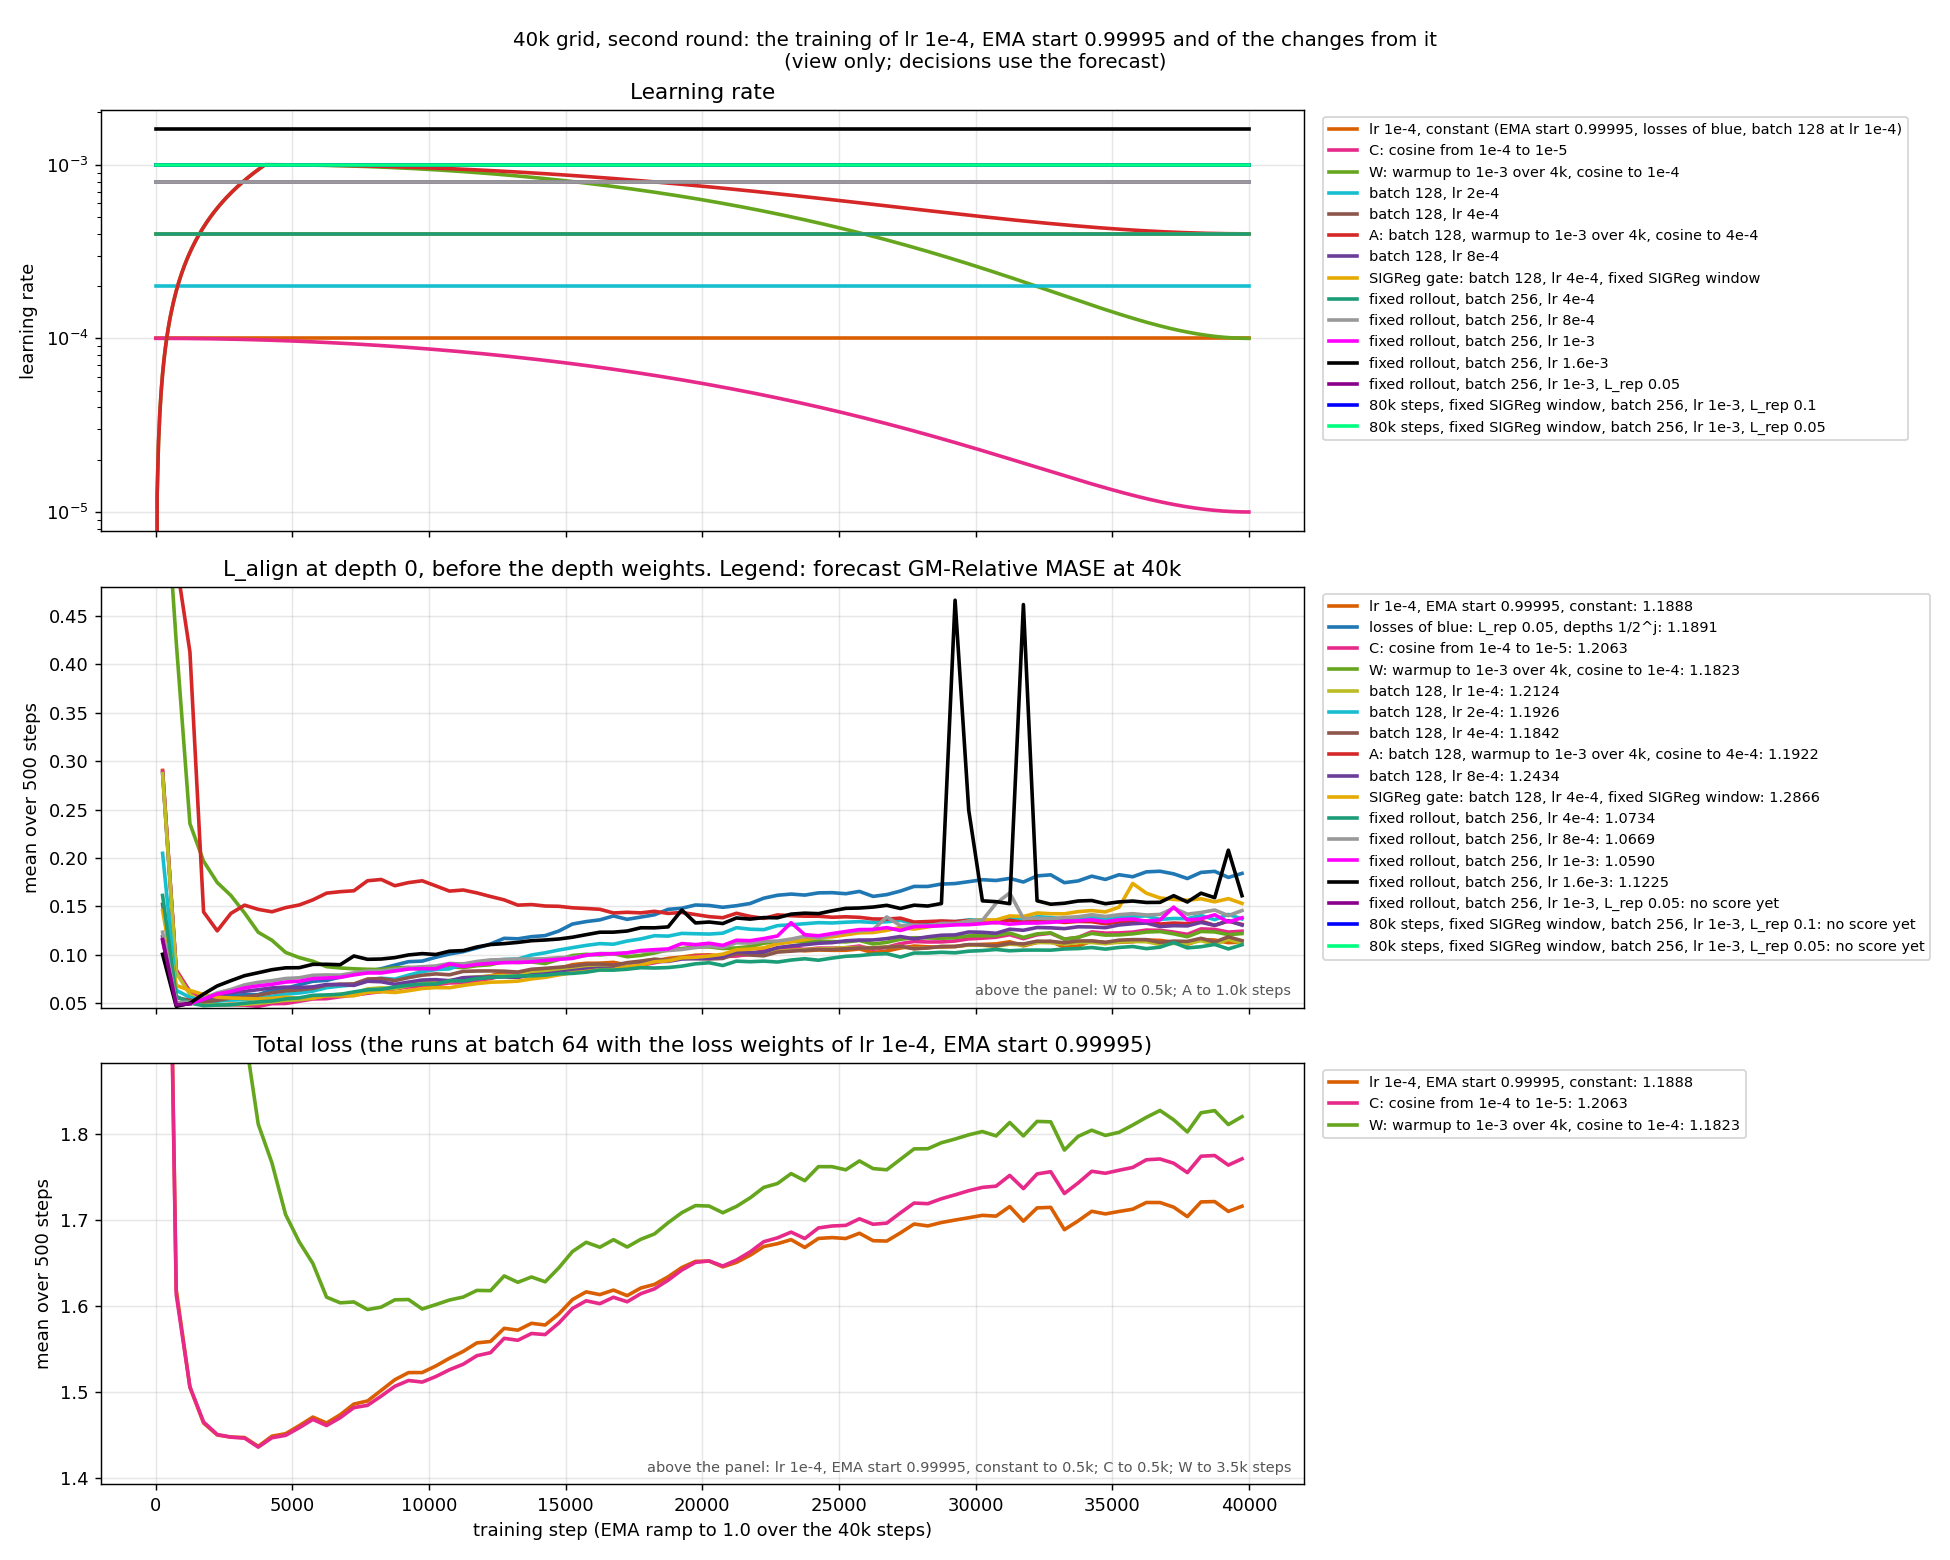
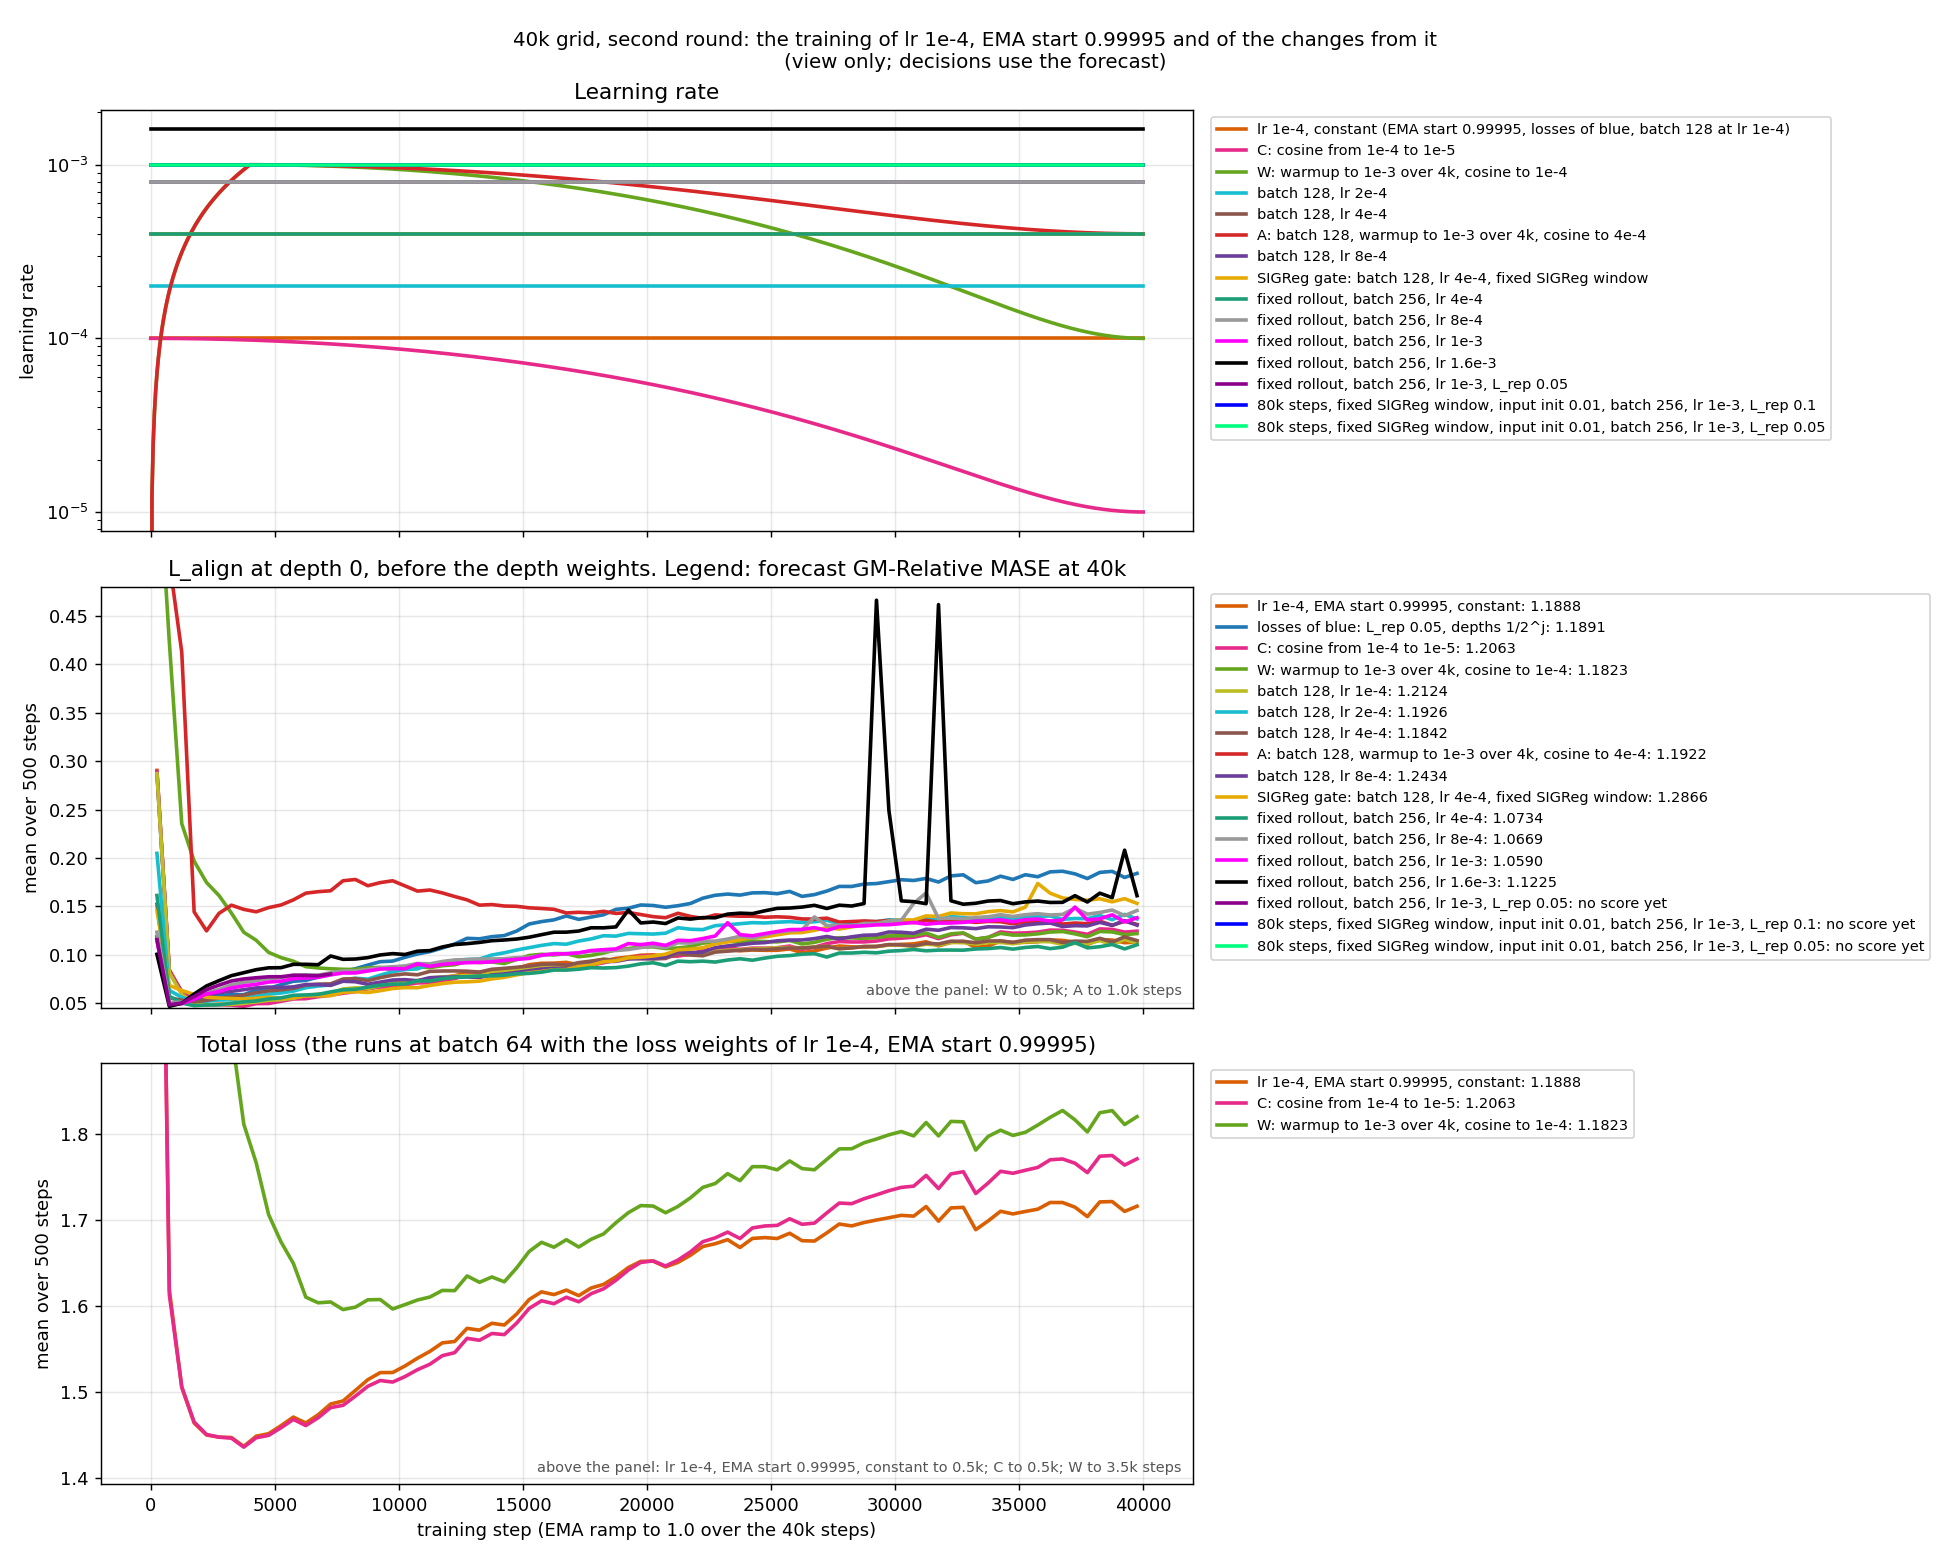
The two 80k runs restart with the patch encoder init near zero (--mup-init-input 0.01)

diff --git a/reports/2026-10-10_frequency_family_head/scripts/plot_grid40k.py b/reports/2026-10-10_frequency_family_head/scripts/plot_grid40k.py
@@ -11,8 +11,8 @@ schedule); batch 128 at the lr 1e-4, 2e-4, 4e-4 and 8e-4, and with the warmup
 of W and a cosine to 4e-4. Batch 256 runs on the fixed code (the user, 11-03):
 the constant lr 4e-4, 8e-4, 1e-3 and 1.6e-3, then L_rep 0.05 at the best of them
 (1e-3; the user's plan of 11-04), and 80k steps at lr 1e-3 with the fixed SIGReg
-window at both L_rep weights, at the same time (the user, 11-05). A grey row is a
-planned run. Its panel has that cell as its first row.
+window at both L_rep weights and the input init 0.01 (--mup-init-input), at the same
+time (the user, 11-05). A grey row is a planned run. Its panel has that cell as its first row.
 
 Each cell is the forecast GM-Relative MASE of head B4 at 40k (30k head steps,
 97 configs). Lower is better. A grey cell has no score yet. A red frame marks
@@ -69,10 +69,10 @@ ROUND2 = {BEST: ("lr 1e-4, EMA start 0.99995\n(no change)", "1e-4"),
                                                    "1.6e-3"),
           "g40b_lr1em3_tau99995_bs256_rep005_rollfix": ("FIXED ROLLOUT, batch 256, lr 1e-3,\nL_rep 0.05 (scored with the fixed rollout)",
                                                         "1e-3"),
-          "g80b_lr1em3_tau99995_bs256_rep01_sigfix_rollfix": (
-              "FIXED ROLLOUT, batch 256, lr 1e-3, L_rep 0.1,\nfixed SIGReg window, 80k steps (score at 40k)", "1e-3"),
-          "g80b_lr1em3_tau99995_bs256_rep005_sigfix_rollfix": (
-              "FIXED ROLLOUT, batch 256, lr 1e-3, L_rep 0.05,\nfixed SIGReg window, 80k steps (score at 40k)", "1e-3")}
+          "g80b_lr1em3_tau99995_bs256_rep01_sigfix_in0p01_rollfix": (
+              "FIXED ROLLOUT, batch 256, lr 1e-3,\nL_rep 0.1, fixed SIGReg window,\ninput init 0.01, 80k steps", "1e-3"),
+          "g80b_lr1em3_tau99995_bs256_rep005_sigfix_in0p01_rollfix": (
+              "FIXED ROLLOUT, batch 256, lr 1e-3,\nL_rep 0.05, fixed SIGReg window,\ninput init 0.01, 80k steps", "1e-3")}
 # The planned runs of the search, not started: (row label, when). The user (11-03 about
 # 21:05 UTC): the heatmap shows them; each one moves into ROUND2 when it starts.
 PLANNED = []
@@ -85,8 +85,8 @@ ROUND2_COLOURS = {BEST: "#d95f02", "g40b_lr1em4_tau99995_rep005h": "#1f77b4",
                   "g40b_lr4em4_tau99995_bs256_rollfix": "#1b9e77", "g40b_lr8em4_tau99995_bs256_rollfix": "#999999",
                   "g40b_lr1em3_tau99995_bs256_rollfix": "#ff00ff", "g40b_lr1p6em3_tau99995_bs256_rollfix": "#000000",
                   "g40b_lr1em3_tau99995_bs256_rep005_rollfix": "#8b008b",
-                  "g80b_lr1em3_tau99995_bs256_rep01_sigfix_rollfix": "#0000ff",
-                  "g80b_lr1em3_tau99995_bs256_rep005_sigfix_rollfix": "#00ff7f"}
+                  "g80b_lr1em3_tau99995_bs256_rep01_sigfix_in0p01_rollfix": "#0000ff",
+                  "g80b_lr1em3_tau99995_bs256_rep005_sigfix_in0p01_rollfix": "#00ff7f"}
 
 
 def run_score(run):

diff --git a/reports/2026-10-10_frequency_family_head/scripts/plot_grid40k_round2.py b/reports/2026-10-10_frequency_family_head/scripts/plot_grid40k_round2.py
@@ -8,7 +8,7 @@ batch 128 with the warmup of W, then a cosine to 4e-4, and the SIGReg gate: batc
 128 at lr 4e-4 with the SIGReg window fix of #438, and batch 256 at the lr 4e-4, 8e-4,
 1e-3 and 1.6e-3, and at lr 1e-3 with L_rep 0.05, with the fixed rollout of #446
 and #447 (the old SIGReg window), and at lr 1e-3 for 80k steps with the fixed SIGReg
-window at L_rep 0.1 and 0.05. Three panels on one step axis, means over bins
+window and the input init 0.01 at L_rep 0.1 and 0.05. Three panels on one step axis, means over bins
 of 500 steps:
 
   1. The lr of each step, from the flags of the run (the formula of
@@ -65,9 +65,9 @@ RUNS = {
                                              (1.6e-3, 1.6e-3, STEPS, 0), False),
     "g40b_lr1em3_tau99995_bs256_rep005_rollfix": ("fixed rollout, batch 256, lr 1e-3, L_rep 0.05",
                                                   (1e-3, 1e-3, STEPS, 0), False),
-    "g80b_lr1em3_tau99995_bs256_rep01_sigfix_rollfix": ("80k steps, fixed SIGReg window, batch 256, lr 1e-3, L_rep 0.1",
+    "g80b_lr1em3_tau99995_bs256_rep01_sigfix_in0p01_rollfix": ("80k steps, fixed SIGReg window, input init 0.01, batch 256, lr 1e-3, L_rep 0.1",
                                                         (1e-3, 1e-3, STEPS, 0), False),
-    "g80b_lr1em3_tau99995_bs256_rep005_sigfix_rollfix": ("80k steps, fixed SIGReg window, batch 256, lr 1e-3, L_rep 0.05",
+    "g80b_lr1em3_tau99995_bs256_rep005_sigfix_in0p01_rollfix": ("80k steps, fixed SIGReg window, input init 0.01, batch 256, lr 1e-3, L_rep 0.05",
                                                          (1e-3, 1e-3, STEPS, 0), False),
 }
 

diff --git a/reports/2026-10-10_frequency_family_head/frequency_family_head.md b/reports/2026-10-10_frequency_family_head/frequency_family_head.md
@@ -88,6 +88,8 @@ At batch 256, the constant learning rates 4e-4, 8e-4, 1e-3 and 1.6e-3 give 1.073
 The lowest score is at 1e-3.
 Compared with 8e-4, the score at 1e-3 is lower on the medium and long horizons (1.1605 and 1.1546 against 1.1852 and 1.1728).
 At 1e-3, three runs train now: L_rep 0.05 for 40k steps, and L_rep 0.1 and 0.05 for 80k steps with the SIGReg window fix.
+The 80k runs start the patch encoder near zero (`--mup-init-input 0.01`, against 0.3 before).
+With the SIGReg window fix, SIGReg on the encoder output stays at about 8.2 from the second step on, also with this init.
 With the fixed rollout, batch 128 at 4e-4 gets 1.2440, and 1.1842 with the raw rollout (the right column).
 This run trained with the raw rollout feedback.
 At 40k, the fixed rollout also gives higher scores for violet (1.1948 against 1.1430) and blue (1.2337 against 1.1944), the two muP runs with the flags of the grid.
